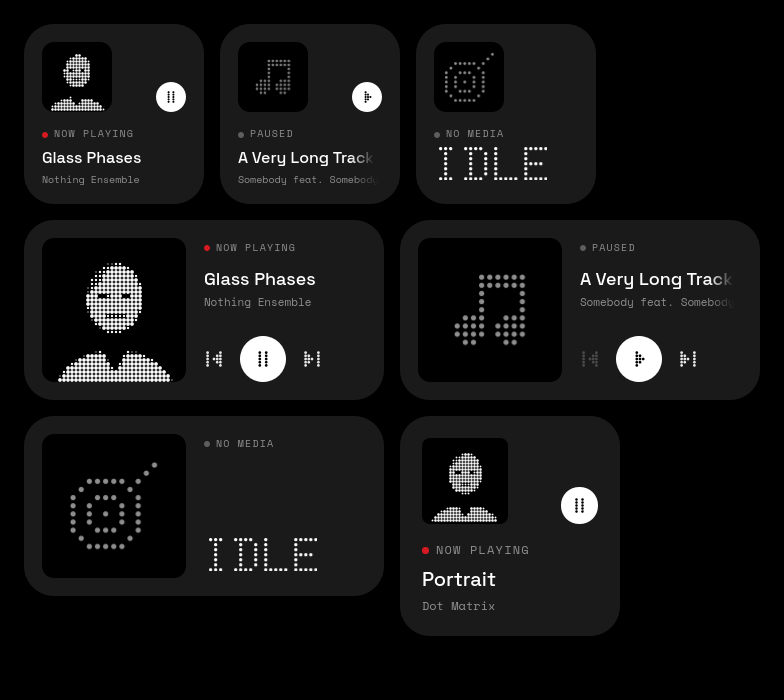
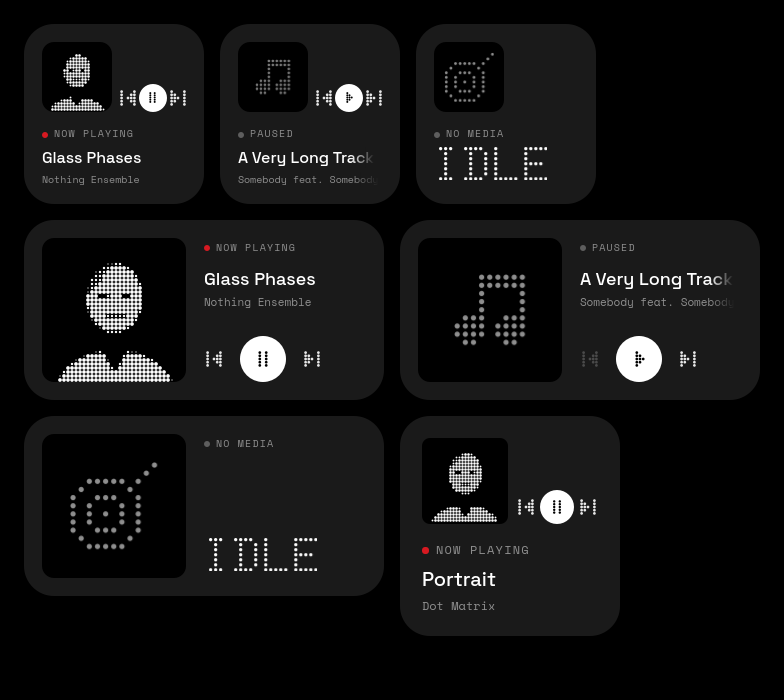
media: prev/next on small card

Changed region(s): [[0.6735, 0.69, 0.7653, 0.75], [0.398, 0.12, 0.4898, 0.18], [0.1531, 0.12, 0.2449, 0.18]]

diff --git a/plasma/plasmoids/org.nothing.media/contents/ui/MediaFace.qml b/plasma/plasmoids/org.nothing.media/contents/ui/MediaFace.qml
@@ -67,7 +67,8 @@ Card {
     component SkipButton: Pressable {
         property string glyph
         property bool can: true
-        width: Math.round(36 * root.u); height: width
+        property int hit: Math.round(36 * root.u)
+        width: hit; height: hit
         enabled: can
         DotGlyph {
             anchors.centerIn: parent
@@ -119,12 +120,24 @@ Card {
                 litColor: Theme.fg2
             }
         }
-        // small disk at transport scale, aligned to the tile's bottom edge
-        PlayButton {
+        // transport row right of the tile, on the tile's bottom edge:
+        // prev · small play disk · next
+        Row {
             visible: root.hasMedia
             anchors.right: parent.right
             y: portrait.height - height
-            diameter: Math.round(30 * root.u)
+            spacing: Math.round(3 * root.u)
+            SkipButton {
+                anchors.verticalCenter: parent.verticalCenter
+                hit: Math.round(16 * root.u)
+                glyph: "prev"; can: root.canPrevious; onClicked: root.previous()
+            }
+            PlayButton { diameter: Math.round(28 * root.u) }
+            SkipButton {
+                anchors.verticalCenter: parent.verticalCenter
+                hit: Math.round(16 * root.u)
+                glyph: "next"; can: root.canNext; onClicked: root.next()
+            }
         }
         Column {
             id: band
